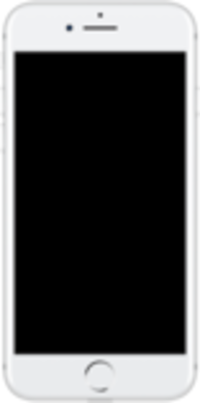
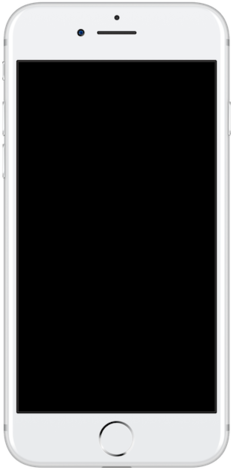
Criação tela home

Changed region(s): [[0.06, 0.1191, 0.96, 0.9529], [0.18, 0.0, 0.84, 0.0893], [0.42, 0.9529, 0.57, 1.0]]

diff --git a/desafio/desafio011/home.html b/desafio/desafio011/home.html
@@ -1,0 +1,24 @@
+<!DOCTYPE html>
+<html lang="pt-br">
+<head>
+    <meta charset="UTF-8">
+    <meta http-equiv="X-UA-Compatible" content="IE=edge">
+    <meta name="viewport" content="width=device-width, initial-scale=1.0">
+    <title>Home</title>
+    <style>
+        * {
+            margin: 0;
+            padding: 0;
+        }
+        body {
+            width: 100vw;
+            height: 100vh;
+            background: black url('imagens/tela-home.jpg') no-repeat top center;
+            background-size: cover;
+        }
+    </style>
+</head>
+<body>
+    
+</body>
+</html>

diff --git a/desafio/desafio011/style.css b/desafio/desafio011/style.css
@@ -31,10 +31,18 @@ main {
     background-image: url(./imagens/frame-iphone.png);
     background-repeat: no-repeat;
 
-    height: 403px;
-    width: 200px;
+    height: 470px;
+    width: 233px;
     position: absolute;
     top: 50%;
     left: 50%;
     transform: translate(-50%,-50%);
+}
+
+#tela {
+    position: relative;
+    top: 60px;
+    left: 16px;
+    width: 201px;
+    height: 353px;
 }

diff --git a/desafio/desafio011/index.html b/desafio/desafio011/index.html
@@ -11,7 +11,7 @@
 <body>
     <main>
         <section id="telefone">
-
+            <iframe id="tela" name="tela" src="home.html" frameborder="0"></iframe>
         </section>
         <section id="redesSocias">
 
